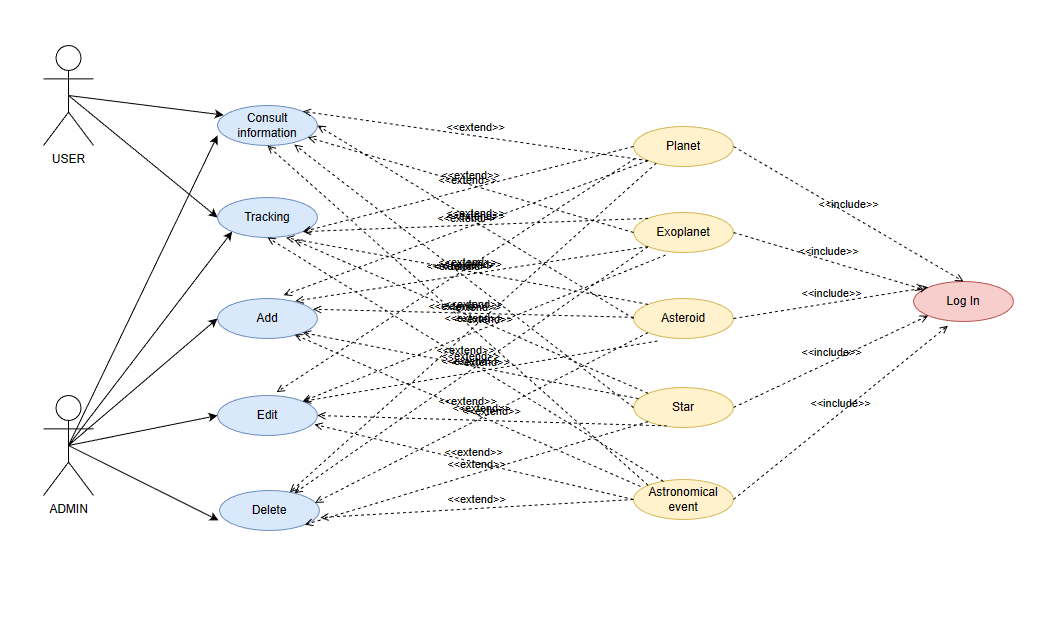
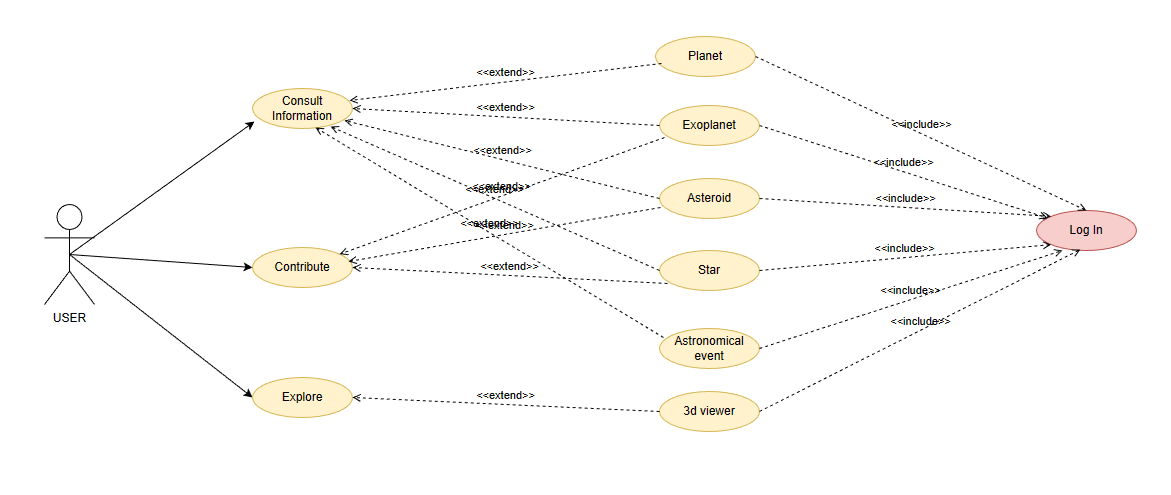
Proyecto actualizado

diff --git a/source/frontend/src/app/components/register/register.component.ts b/source/frontend/src/app/components/register/register.component.ts
@@ -19,11 +19,11 @@ export class RegisterComponent {
   passwordConfirm: string = '';
   validations = [
     {
-      isValid: () => this.user.email.trim().length > 0 && this.user.username.trim().length > 0 && this.user.password.trim().length > 0 && this.passwordConfirm.trim().length > 0,
+      isValid: () => this.user.email.toLowerCase().trim().length > 0 && this.user.username.trim().length > 0 && this.user.password.trim().length > 0 && this.passwordConfirm.trim().length > 0,
       errorMessage: 'Please, fill all the fields'
     },
     {
-      isValid: () => this.user.email.match("^[a-z0-9._%+-]+@[a-z0-9.-]+\\.[a-z]{2,4}$"),
+      isValid: () => this.user.email.toLowerCase().match("^[a-z0-9._%+-]+@[a-z0-9.-]+\\.[a-z]{2,4}$"),
       errorMessage: 'Invalid email format'
     },
     {

diff --git a/source/frontend/src/app/services/auth/auth.service.ts b/source/frontend/src/app/services/auth/auth.service.ts
@@ -28,7 +28,7 @@ export class AuthService {
           }
         }),
         catchError(() => {
-          return throwError(() => new Error('Hubo un error al iniciar sesión'));
+          return throwError(() => new Error('There was an error. Check your credentials.'));
         })
       );
   }

diff --git a/doc/english 🇬🇧/preliminary-draft.md b/doc/english 🇬🇧/preliminary-draft.md
@@ -28,9 +28,9 @@ Through this initiative, Space Gaze aims to foster collaboration and knowledge e
 The website will have the following functionalities (preliminary):
 
 - Show detailed information about different celestial bodies.
-- Allow users to search and filter information by different criteria, such as name, type of object, size, distance, among others.
-- Add favorite celestial bodies that they wish to track more closely.
+- Allow users to search and filter information.
 - Provide a calendar of astronomical events, such as eclipses, planetary alignments, and meteor showers.
+- A detailed 3d viewer of the Milky Way and all the bodies in it (provided by https://www.solarsystemscope.com/)
 
 The technologies used will be:
 
@@ -39,13 +39,12 @@ The technologies used will be:
 - Javascript and Typescript with Angular for the Front end.
 - Java with Spring for the Back end.
 - MySQL database.
-- Deployment with Docker.
 
 ### Sketch of the solution
 
 <div align="center">
 
-![Aplication draft](../../img/draft.png)
+![Application draft](../../img/draft.png)
 
 </div>
 

diff --git a/doc/español 🇪🇸/anteproyecto.md b/doc/español 🇪🇸/anteproyecto.md
@@ -28,9 +28,9 @@ A través de esta iniciativa, Space Gaze tiene como objetivo fomentar la colabor
 La web tendrá las siguientes funcionalidades (preliminar):
 
 - Mostrar información detallada sobre distintos cuerpos celestes.
-- Permitir a los usuarios buscar y filtrar información por distintos criterios, como nombre, tipo de objeto, tamaño, distancia, entre otros.
-- Añadir a favoritos los cuerpos celestes a los que deseen realizar un seguimiento más detallado.
+- Permitir a los usuarios buscar y filtrar información por.
 - Proporcionar un calendario sobre eventos astronómicos, como eclipses, alineaciones planetarias y lluvias de meteoros.
+- Un visor 3D detallado de la Vía Láctea y todos los cuerpos en ella (gracias a https://www.solarsystemscope.com/).
 
 Las tecnologías usadas serán:
 
@@ -39,7 +39,6 @@ Las tecnologías usadas serán:
 - Javascript y Typescript con Angular para el Front end.
 - Java con Spring para el Back end.
 - Base de datos MySQL.
-- Despliegue con Docker.
 
 ### Boceto de la solución
 

diff --git a/testing/README.md b/testing/README.md
@@ -1,0 +1,20 @@
+<div align="justify">
+
+# 🇬🇧 Testing 🇬🇧
+
+This app is based on two parts, Backend and Frontend.
+
+Frontend has been developed using Angular, inside each component, you can find all the `spec.ts` files with all the testing.
+
+For the Backend, which was developed using Java and Spring Boot, you can find a test folder, besides the main one.
+
+## 🇪🇸 Pruebas 🇪🇸
+
+Esta aplicación se basa en dos partes, Backend y Frontend.
+
+El Frontend ha sido desarrollado usando Angular, dentro de cada componente, puedes encontrar todos los archivos 'spec.ts' con todas las pruebas realizadas.
+
+Para el Backend, que fue desarrollado usando Java y Spring Boot, puedes encontrar una carpeta de prueba, además de la principal.
+
+
+</div>

diff --git a/deploy/README.md b/deploy/README.md
@@ -1,0 +1,15 @@
+<div align="justify">
+
+# 🇬🇧 Deply 🇬🇧
+
+The deployment of this website will be done using Nginx and Tomcat.
+
+You can see the app deployed here: http://space_gaze.alu7359.arkania.es/
+
+## 🇪🇸 Despliegue 🇪🇸
+
+El despliegue de esta página web será realizado usando Nginx y Tomcat.
+
+Se puede ver la aplicación desplegada aquí: http://space_gaze.alu7359.arkania.es/
+
+</div>
